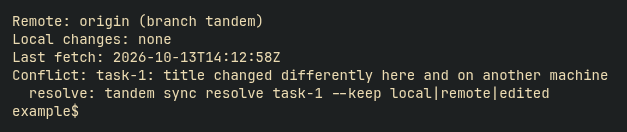
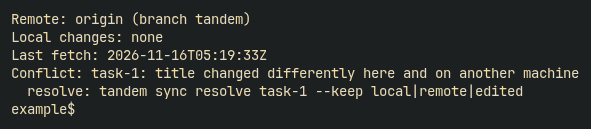
Apply the eight approved README and docs tweaks
README shows the real Board screenshot, points to the release and quickstart,
and capitalises Rust. Quickstart shortens the init note (detail moves to Agents)
and separates commands from sample output. Homepage caption and alt text drop
'Actual' and the version. TUI page keeps user-level behaviour; web-server detail
moves to the CLI reference. TUI, web and sync-status images are recaptured from
tandem 0.17.7 on an isolated sample board; Concepts keeps one sync image and the
three unreferenced images are removed.

diff --git a/site/src/styles/verdigris.css b/site/src/styles/verdigris.css
@@ -855,14 +855,12 @@ body {
 }
 
 /* Accepted terminal captures retain their native text scale inside a page-width scroll region. */
-.sl-markdown-content p:has(> a[href^='/images/sync-status-']),
-.sl-markdown-content p:has(> a[href='/images/tui-sync-conflict.png']) {
+.sl-markdown-content p:has(> a[href^='/images/sync-status-']) {
 	max-width: 100%;
 	overflow-x: auto;
 }
 
-.sl-markdown-content p:has(> a[href^='/images/sync-status-']) img,
-.sl-markdown-content p:has(> a[href='/images/tui-sync-conflict.png']) img {
+.sl-markdown-content p:has(> a[href^='/images/sync-status-']) img {
 	display: block;
 	width: auto;
 	max-width: none;

diff --git a/docs/tui/index.md b/docs/tui/index.md
@@ -19,16 +19,12 @@ The full TUI has Board, Logs, Rules, and Decisions views. Switch with `1`–`4` 
 
 ### Rules
 
-Rules management shows **all** records, including disabled ones. Rows and previews say **On** or **Off**; overall and selected-category counts distinguish enabled and disabled rules. With the list focused, **Space** toggles the selected rule; clicking **Turn on / Turn off** does the same. **Enter** still opens/closes preview, and navigation/add/edit/delete keep their existing bindings. No toggle confirmation is required.
-
-Disabled rules retain the same UID, ID, text and metadata, so re-enabling does not create a replacement. Selection follows identity through in-process reload, including publication of provisional IDs. Enabled state and rule identity survive restarting the TUI; a fresh process uses its normal default selection. Toggles never push guidance into a running agent's context.
+The Rules view shows every rule, including disabled ones, marked **On** or **Off**. Press **Space** on the selected rule, or click **Turn on / Turn off**, to toggle it; **Enter** opens or closes its preview. A disabled rule keeps its ID and text, so turning it back on restores the same rule. Toggling a rule does not change what a running agent has already read.
 
 ## Read-only web view
 
-`tandem web` opens a browser view of one discovered workspace. It is read-only and binds to loopback; it does not serve a workspace roster or allow remote access. Its Rules page shows enabled guidance only; manage disabled records in the TUI or with `tandem rules list --all`.
+`tandem web` opens a browser view of one discovered workspace. It is read-only, local to this machine, and refreshes as the board changes. Its Rules page shows enabled guidance only; manage disabled records in the TUI or with `tandem rules list --all`.
 
 [![The read-only web view of one tandem workspace.](/images/web-read-only.png)](/images/web-read-only.png)
 
 See [Configuration](/reference/configuration/) for TUI themes and Board badges. Board storage and sync behavior are covered in [Concepts](/concepts/#board-storage-and-sync).
-
-The web view serves one workspace over loopback from embedded assets, under `/api/v1`, with restrictive security headers and no-store caching; the page polls the board revision about every three seconds. `tandem tui` reports its exit through the terminal's status line, which a PTY capture can check.

diff --git a/README.md b/README.md
@@ -3,7 +3,12 @@
   <img alt="tandem" src="site/public/banner-light.svg">
 </picture>
 
-tandem is my local-first board for planning and delegating work between people and agents, stored as Markdown in the repository. It is a rust CLI and TUI, the protocol the board follows, and the docs that explain both.
+tandem is my local-first board for planning and delegating work between people and agents, stored as Markdown in the repository. It is a Rust CLI and TUI, the protocol the board follows, and the docs that explain both.
+
+<picture>
+  <source media="(prefers-color-scheme: dark)" srcset="site/public/images/homepage/board-dark-desktop.png">
+  <img alt="The tandem TUI Board in an example workspace, showing seven example Tasks." src="site/public/images/homepage/board-light-desktop.png">
+</picture>
 
 ## Install
 
@@ -12,7 +17,7 @@ curl -fsSL https://trytandem.dev/install.sh | sh
 tandem --version
 ```
 
-The installer is user-local and needs no `sudo`. With rust, install from this repository:
+The installer is user-local and needs no `sudo`. With Rust, install from this repository:
 
 ```sh
 cargo install --git https://github.com/Algorant/tandem.git --locked tandem
@@ -20,12 +25,12 @@ cargo install --git https://github.com/Algorant/tandem.git --locked tandem
 
 ## How to use this repo
 
-Do not clone or build it to use tandem. Install the release above, then read the [quickstart](https://trytandem.dev/quick-start/) or [concepts](https://trytandem.dev/concepts/), and point your agent at them, or at one part of this repo.
+You don't need this repo to use tandem: install the release, then follow the [quickstart](https://trytandem.dev/quick-start/).
 
 ## Core
 
 - **[protocol](protocol/README.md)** — the normative board format: Tasks, Decisions, Rules, Logs, Accords, and the event ledgers behind them
-- **[tandem](tandem/README.md)** — the rust CLI and TUI that read and write a `.tandem/` board, with the app and project layers underneath
+- **[tandem](tandem/README.md)** — the Rust CLI and TUI that read and write a `.tandem/` board, with the app and project layers underneath
 - **[docs](docs/)** — the published source for [trytandem.dev](https://trytandem.dev/), built by [site](site/)
 
 ## Development

diff --git a/docs/quick-start/index.md b/docs/quick-start/index.md
@@ -22,17 +22,20 @@ In a Git repository, initialize the board:
 tandem init
 ```
 
-Init reports six enabled starter rules (two Always, two Never, one Prefer, one Context) and a rules-pointer outcome for each existing `AGENTS.md` / `CLAUDE.md`. Missing instruction files are not created, exact existing pointers are not duplicated, and symlinks to regular files are appended to in place without replacing the link. This is fresh initialization, not a rerun command for existing boards. Read the current guidance with `tandem rules list`; use `--all` to include disabled records.
+Init adds six starter rules and points any existing agent instructions file at them. Read them with `tandem rules list`.
 
-Then create a Task with an acceptance criterion:
+Then create a Task with an acceptance criterion and claim it:
 
-```console
-$ tandem add task "Add a greeting" --acceptance "README contains the greeting"
+```sh
+tandem add task "Add a greeting" --acceptance "README contains the greeting"
+tandem accord claim task-1 --assignee you
+```
+
+```text
 Created task
 ID: task-1
 Title: Add a greeting
 Sync: saved locally (no Git remote to sync with)
-$ tandem accord claim task-1 --assignee you
 Accord task-1: claimed (record written; saved locally (no Git remote to sync with))
 ```
 
@@ -40,14 +43,14 @@ Add the greeting to `README.md`, then record the result and check:
 
 ```sh
 printf '\nHello from tandem.\n' >> README.md
+tandem accord deliver task-1 --summary "Added a greeting" --evidence "README greeting verified"
+tandem complete task-1
+tandem list --scope archived
 ```
 
-```console
-$ tandem accord deliver task-1 --summary "Added a greeting" --evidence "README greeting verified"
+```text
 Accord task-1: delivered (record written; saved locally (no Git remote to sync with))
-$ tandem complete task-1
 Completed task-1 (record written; saved locally (no Git remote to sync with))
-$ tandem list --scope archived
 task-1	Add a greeting
 ```
 

diff --git a/docs/agents/index.md b/docs/agents/index.md
@@ -22,7 +22,7 @@ evidence.
 Do not edit `.tandem/` directly.
 ```
 
-Fresh `tandem init` seeds six enabled coordination rules and appends this line to existing `AGENTS.md` and `CLAUDE.md` files only: Read the current project rules with `tandem rules list` before starting work. It does not create missing instruction files, duplicate an exact existing line, or make init rerunnable. Symlinks to regular files are appended to in place; aliases of one target receive one insertion.
+Fresh `tandem init` seeds six enabled coordination rules (two Always, two Never, one Prefer, one Context) and appends this line to existing `AGENTS.md` and `CLAUDE.md` files only: Read the current project rules with `tandem rules list` before starting work. Init reports the outcome for each of those files. It does not create missing instruction files, duplicate an exact existing line, or make init rerunnable on an existing board. Symlinks to regular files are appended to in place without replacing the link; aliases of one target receive one insertion.
 
 At the start of **each session**, read `tandem rules list --json`, check `ok` and `warnings`, and apply the returned enabled rules without reclassifying their categories. Reads use tandem's normal local/remote refresh policy: a stale-sync warning is not a promise of current remote guidance. Report and resolve failed reads rather than silently reusing old or empty guidance. `tandem rules list --all` includes disabled records for management, not active instructions.
 

diff --git a/docs/concepts/index.md b/docs/concepts/index.md
@@ -21,12 +21,6 @@ A board outside Git is local to that directory. For multiple machines, install a
 
 If two machines change the same record differently, the remote version remains on the shared board while tandem preserves both versions locally and reports a conflict. Inspect it with `tandem sync status`, then resolve the reported record with `tandem sync resolve <id> --keep local|remote|edited`. tandem may also hold back a local edit that would make the shared board invalid; fix the reported record and sync again. A conflict or held edit does not discard the saved local work.
 
-[![A board change waiting to sync is reported as pending.](/images/sync-status-pending.png)](/images/sync-status-pending.png)
-
 [![A same-record conflict is preserved for resolution.](/images/sync-status-conflict.png)](/images/sync-status-conflict.png)
-
-[![An invalid local record is held out of the shared board.](/images/sync-status-held.png)](/images/sync-status-held.png)
-
-[![The TUI identifies a record with a sync conflict.](/images/tui-sync-conflict.png)](/images/tui-sync-conflict.png)
 
 See the [Quickstart](/quick-start/) for a complete Task, and the [CLI reference](/cli/) for sync commands.

diff --git a/docs/cli/index.md b/docs/cli/index.md
@@ -26,6 +26,8 @@ The `tandem` command finds the nearest workspace from the current directory. Run
 | `tui [--add-workspace PATH ...]` | Open the TUI; repeat `--add-workspace` to seed more local boards for this invocation. |
 | `web [--port PORT] [--no-open]` | Start the local, read-only web view. |
 
+`web` serves one discovered workspace over loopback from embedded assets, with no workspace roster or remote access. Its JSON API is under `/api/v1`, responses carry restrictive security headers and `no-store` caching, and the page polls the board revision about every three seconds.
+
 Global flags: `-j, --json` for JSON, `-h, --help` for help, and `-V, --version` for the installed binary version. There are no other short flags.
 
 Rules list JSON keeps `data` as an array of `{id, category, rule, source, enabled}` items. State changes return `{id, enabled, changed, sync}` within `data`; repeating the same state returns `changed: false` without changing the file, timestamp or event ledger. No disable confirmation is required. Ordinary rule edits preserve enabled state and unrelated metadata.
